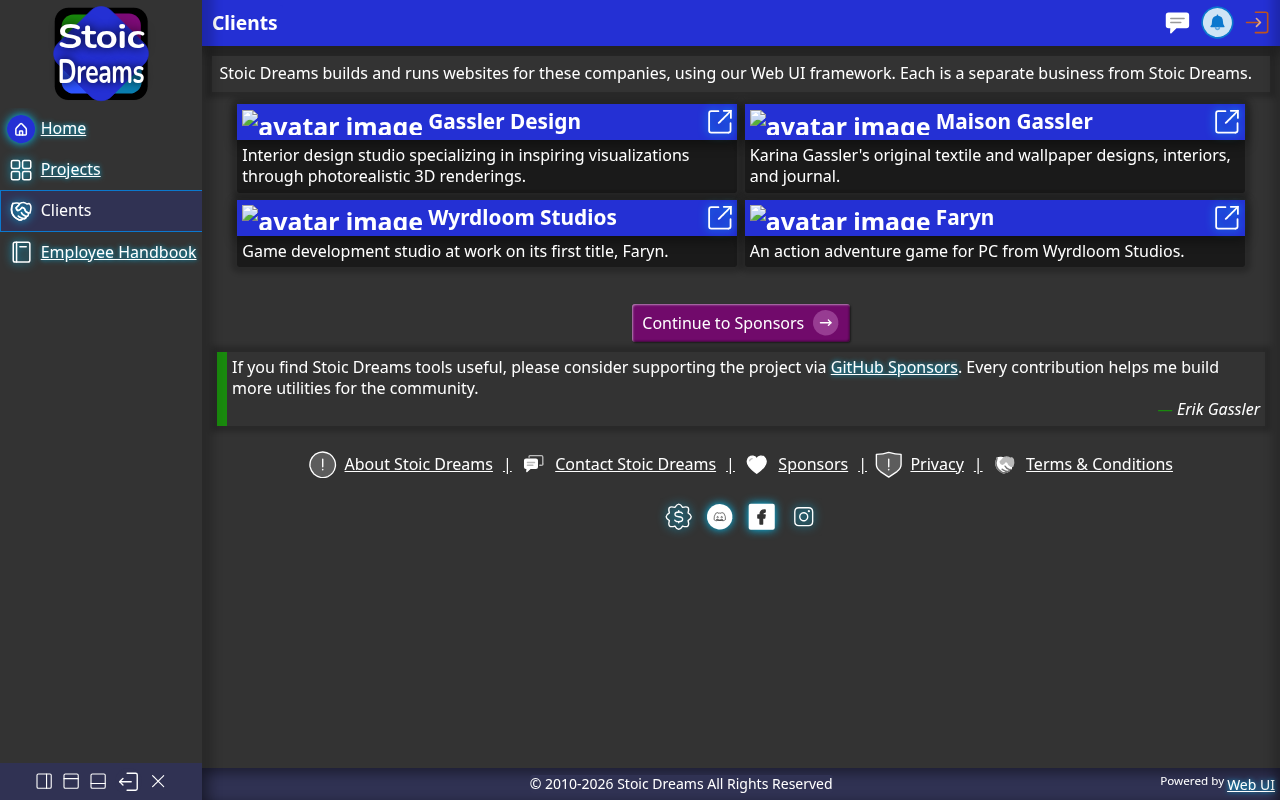
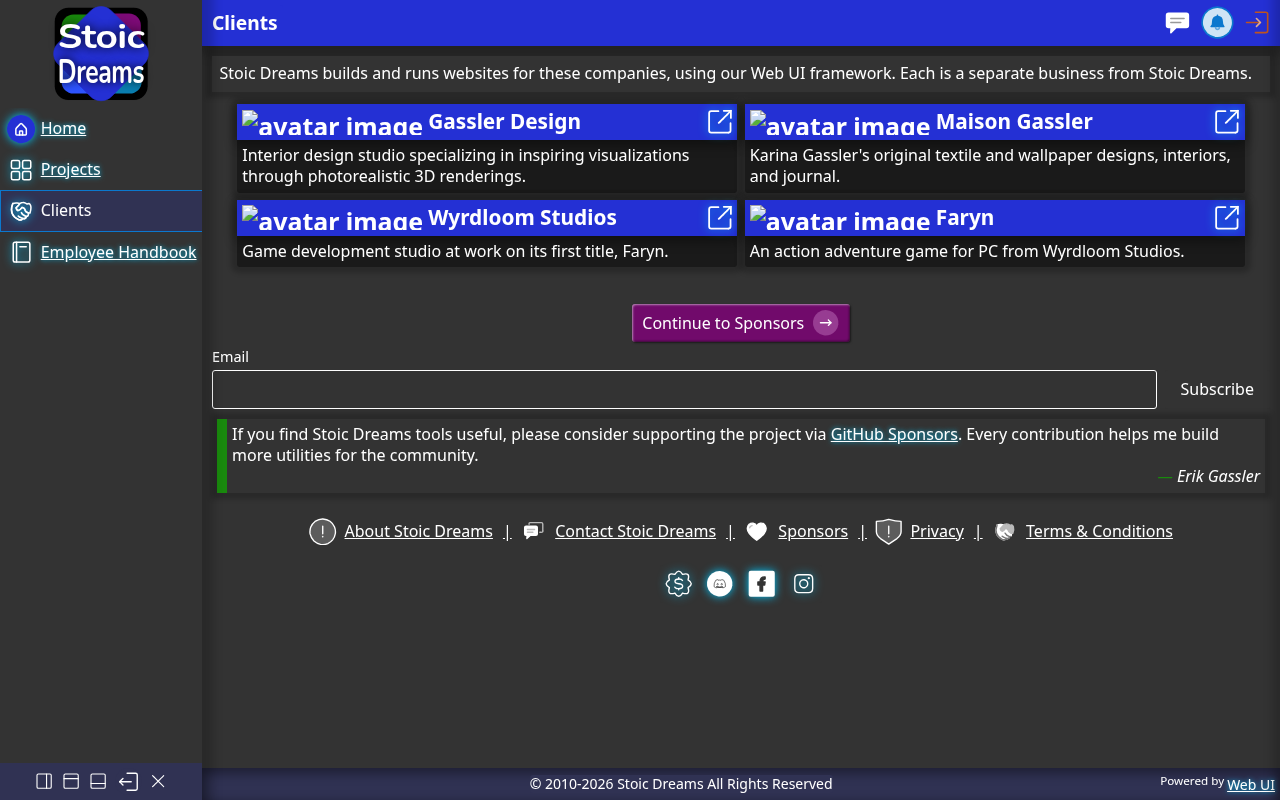
Feature: Newsletter signup for Stoic Dreams announcements and product updates in the footer of every page

Changed region(s): [[0.1562, 0.4375, 1.0, 0.625], [0.2188, 0.625, 0.9062, 0.75], [0.9375, 0.5938, 0.9688, 0.625]]

diff --git a/webapp/root_files/service-worker.min.js b/webapp/root_files/service-worker.min.js
@@ -1,1 +1,1 @@
-self.addEventListener("install",t=>t.waitUntil(onInstall(t))),self.addEventListener("activate",t=>t.waitUntil(onActivate(t))),self.addEventListener("fetch",t=>{const e=new URL(t.request.url);e.protocol==="ipc:"||e.protocol==="tauri:"||e.hostname==="ipc.localhost"||e.hostname==="tauri.localhost"||e.hostname.startsWith("127")||e.hostname==="localhost"||t.request.url.startsWith("http")&&allowCache(t.request)&&t.respondWith(onFetch(t))});const currentVersion="0.1.31",cacheNamePrefix="offline-cache-",cacheName=`${cacheNamePrefix}${currentVersion}`;async function onInstall(t){self.skipWaiting()}async function onActivate(t){const e=await caches.keys();await Promise.all(e.filter(a=>a.startsWith(cacheNamePrefix)&&a!==cacheName).map(a=>caches.delete(a))),await self.clients.claim()}async function onFetch(t){const e=await caches.open(cacheName);let a;try{a=await fetch(applyCacheBusting(t.request))}catch(n){const c=await e.match(t.request);if(c)return c;throw n}return a.ok?(t.waitUntil(e.put(t.request,a.clone()).catch(()=>{})),a):await e.match(t.request)||a}function applyCacheBusting(t){try{const e=new URL(t.url);return e.searchParams.set("_",Date.now()),new Request(e.toString(),t)}catch{return t}}function allowCache(t){return!(t.method!=="GET"||t.mode==="navigate")}
+self.addEventListener("install",t=>t.waitUntil(onInstall(t))),self.addEventListener("activate",t=>t.waitUntil(onActivate(t))),self.addEventListener("fetch",t=>{const e=new URL(t.request.url);e.protocol==="ipc:"||e.protocol==="tauri:"||e.hostname==="ipc.localhost"||e.hostname==="tauri.localhost"||e.hostname.startsWith("127")||e.hostname==="localhost"||t.request.url.startsWith("http")&&allowCache(t.request)&&t.respondWith(onFetch(t))});const currentVersion="0.1.32",cacheNamePrefix="offline-cache-",cacheName=`${cacheNamePrefix}${currentVersion}`;async function onInstall(t){self.skipWaiting()}async function onActivate(t){const e=await caches.keys();await Promise.all(e.filter(a=>a.startsWith(cacheNamePrefix)&&a!==cacheName).map(a=>caches.delete(a))),await self.clients.claim()}async function onFetch(t){const e=await caches.open(cacheName);let a;try{a=await fetch(applyCacheBusting(t.request))}catch(n){const c=await e.match(t.request);if(c)return c;throw n}return a.ok?(t.waitUntil(e.put(t.request,a.clone()).catch(()=>{})),a):await e.match(t.request)||a}function applyCacheBusting(t){try{const e=new URL(t.url);return e.searchParams.set("_",Date.now()),new Request(e.toString(),t)}catch{return t}}function allowCache(t){return!(t.method!=="GET"||t.mode==="navigate")}

diff --git a/webapp/index.html b/webapp/index.html
@@ -93,6 +93,7 @@
 		<noscript>Javascript is required to view this site</noscript>
 		<webui-page-footer copyright="2010" company="Stoic Dreams">
 			<webui-next-page theme="tertiary" data-subscribe="page-next-page"></webui-next-page>
+			<webui-newsletter key="703a9b5e-0a14-4ed7-9618-ce96ca4e3e21"></webui-newsletter>
 			<webui-quote theme="success" cite="Erik Gassler">
 				If you find Stoic Dreams tools useful, please consider supporting the project via [GitHub Sponsors](https://github.com/sponsors/StoicDreams). Every contribution helps me build more utilities for the community.
 			</webui-quote>

diff --git a/webapp/root_files/service-worker.js b/webapp/root_files/service-worker.js
@@ -20,7 +20,7 @@ self.addEventListener('fetch', event => {
     }
     event.respondWith(onFetch(event))
 });
-const currentVersion = '0.1.31';
+const currentVersion = '0.1.32';
 const cacheNamePrefix = 'offline-cache-';
 const cacheName = `${cacheNamePrefix}${currentVersion}`;
 async function onInstall(event) {

diff --git a/Docs/README.md b/Docs/README.md
@@ -1,6 +1,6 @@
 # Stoic Dreams
 
-[Version: 0.1.31](https://github.com/StoicDreams/StoicDreams)
+[Version: 0.1.32](https://github.com/StoicDreams/StoicDreams)
 
 [WebUI](https://github.com/StoicDreams/WebUI)
 
